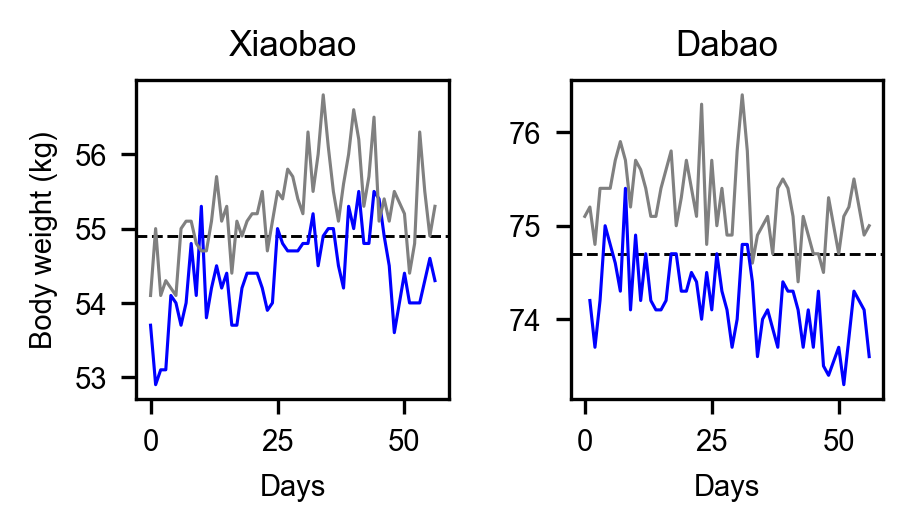
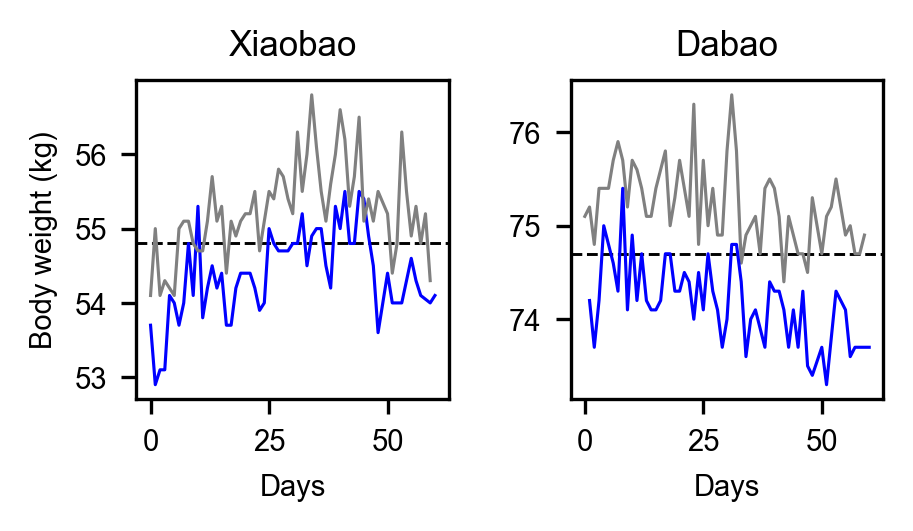
update health stats

diff --git a/health_stats_Di_Shaohe.md b/health_stats_Di_Shaohe.md
@@ -3,7 +3,7 @@ layout: player_stats
 title: Di and Shaohe Health
 author: Shaohe Wang
 author_url: https://scholar.google.com/citations?user=R_-kJV4AAAAJ&hl=en
-date: 2021-05-20
+date: 2021-05-24
 ---
 
 ### 左：吴笛；右：王少鹤
